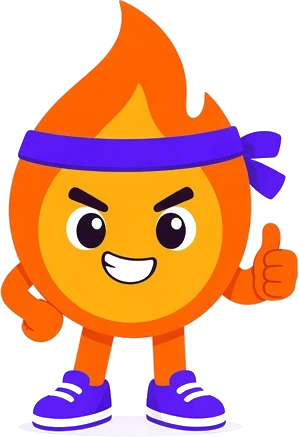
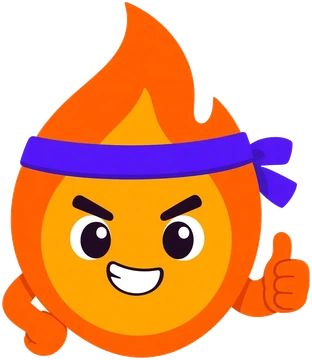
style: use the mascot without legs on the access screens

diff --git a/frontend/src/components/layout.js b/frontend/src/components/layout.js
@@ -70,8 +70,8 @@ function mascot() {
   )
   image.src = mascotUrl
   image.alt = ''
-  image.width = 299
-  image.height = 437
+  image.width = 312
+  image.height = 360
   image.decoding = 'async'
   image.draggable = false
   return image
